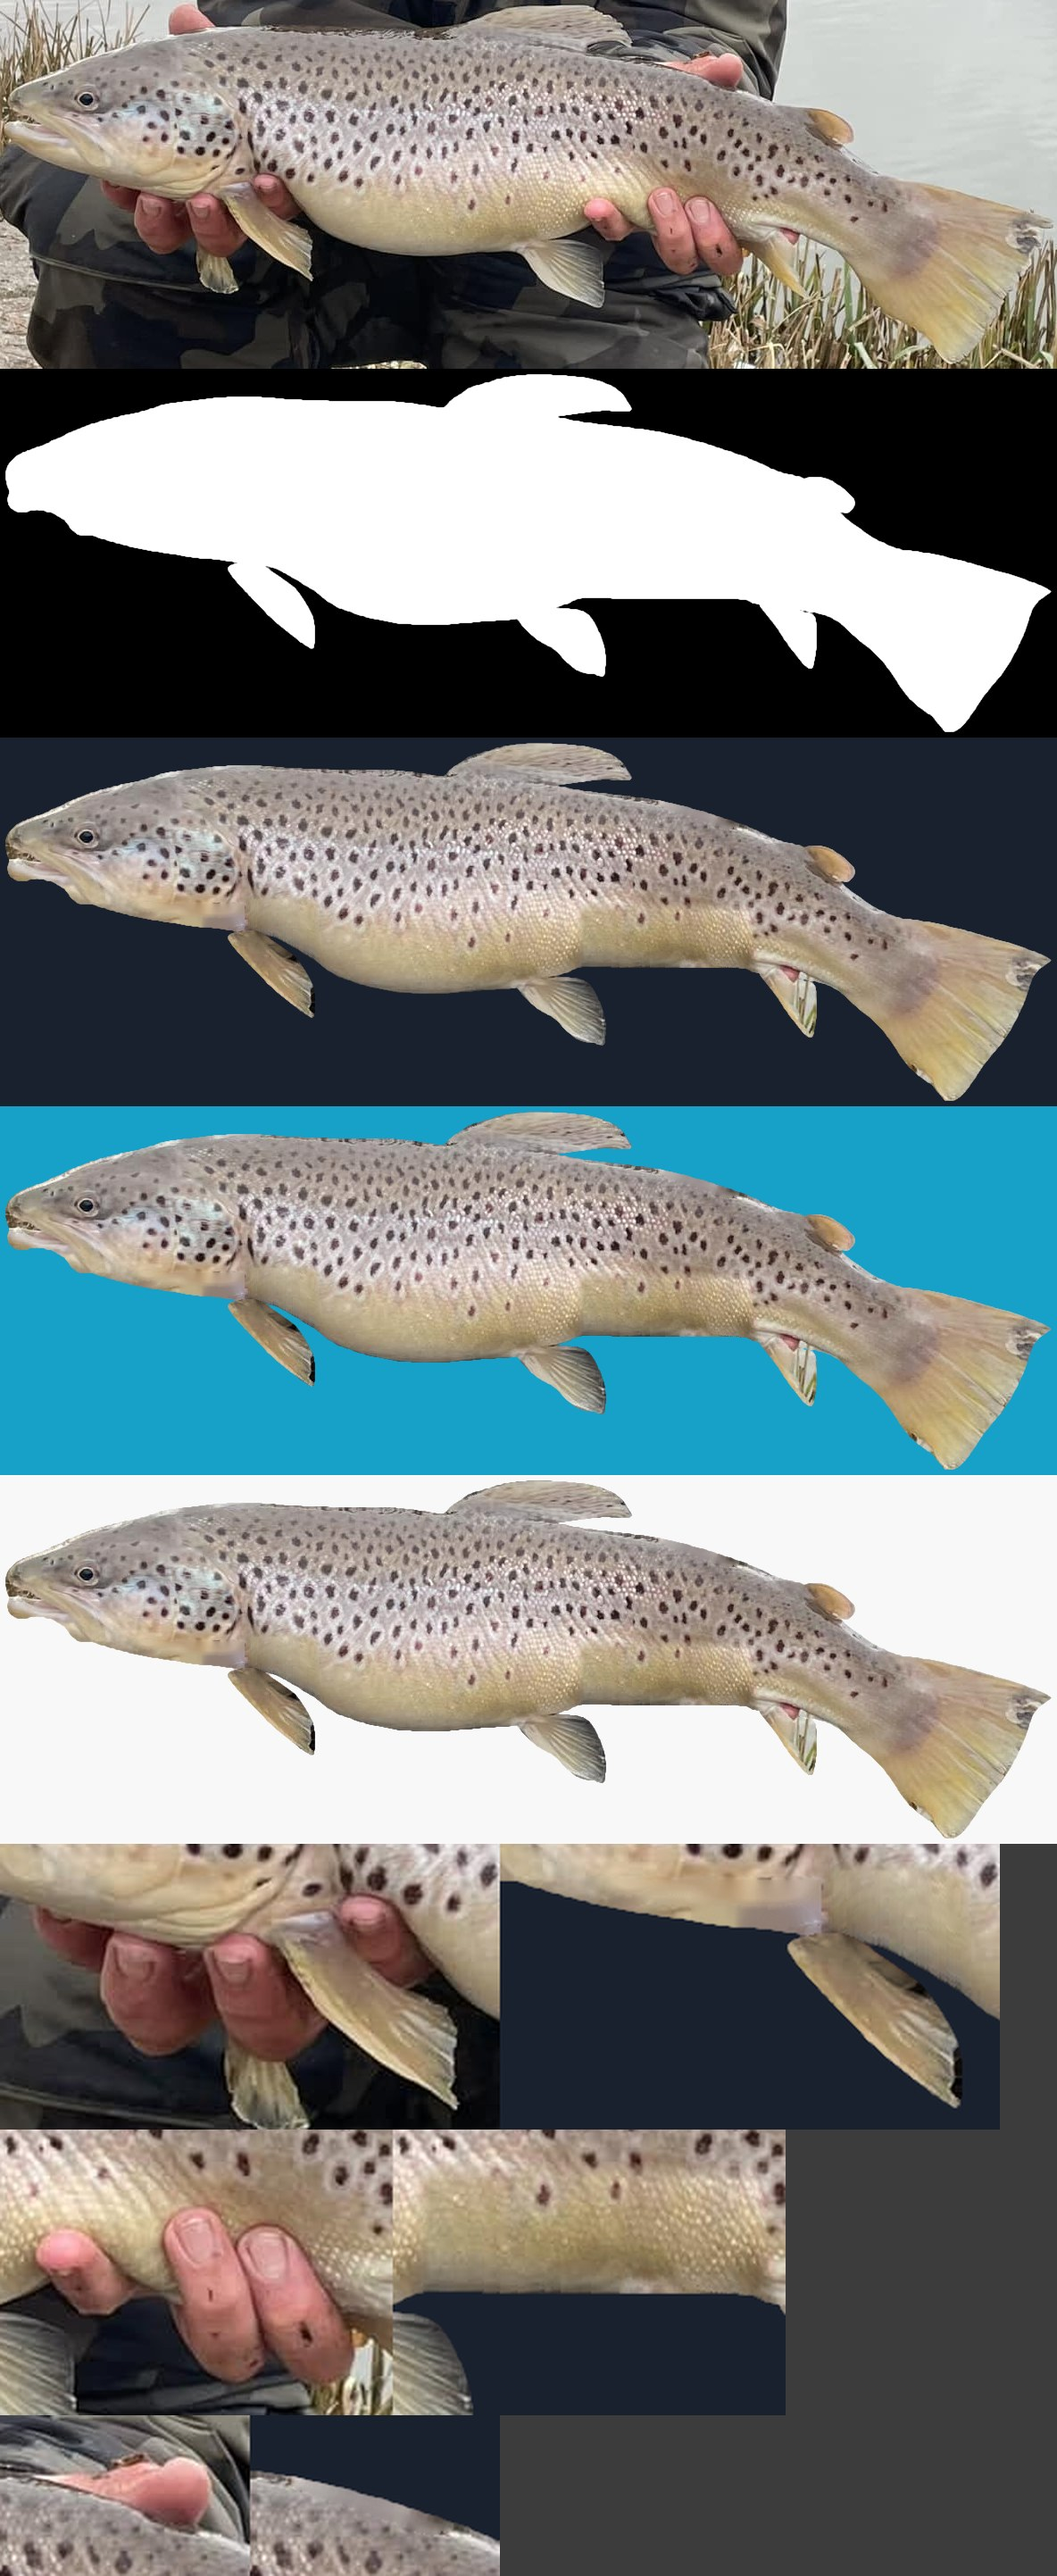
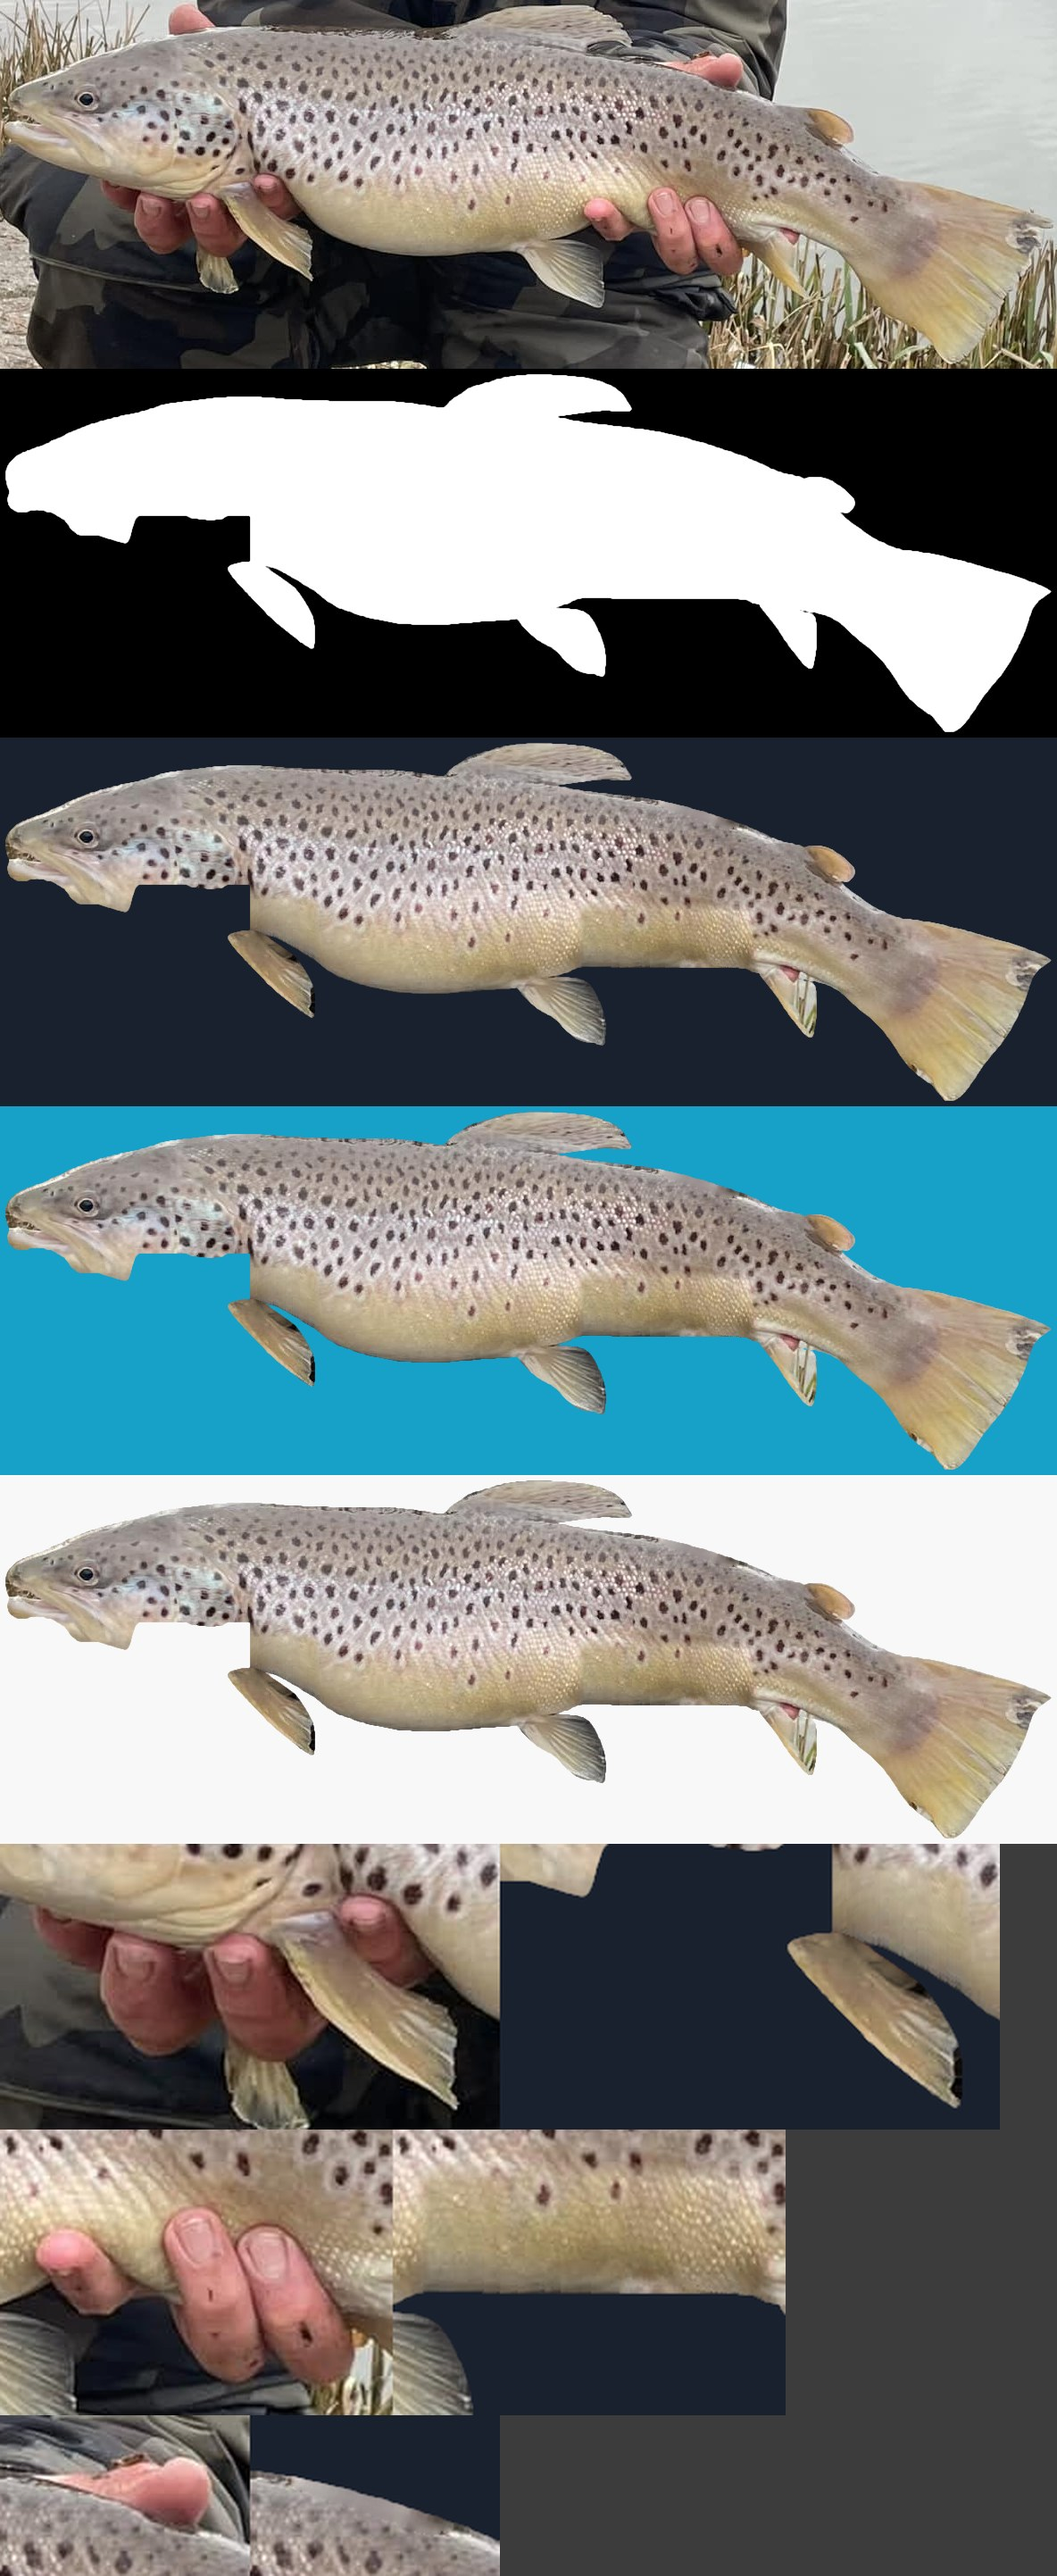
MČR 2026: workflow outputs (in progress)
Claude-Session: https://claude.ai/code/session_01UKzPfFpeHC8GokMPr6qFhY

diff --git a/projects/mcr-2026-sponzori/scripts/assets_prep/venue/fish_real_cut.py b/projects/mcr-2026-sponzori/scripts/assets_prep/venue/fish_real_cut.py
@@ -168,6 +168,22 @@ def band_copy(x0, y0, x1, y1, dx, excl, feather_v=12, feather_h=12, dc_scale=0.5
 fixed |= band_copy(795, 1183, 990, 1252, -190, pecb)
 fixed |= band_copy(425, 1168, 500, 1240, 70, pecb, feather_v=8, feather_h=8)
 
+# (1c) fingertips under the jaw/throat (x 245–425): the fingers only clip the lower rim, so the outline follows the
+#      finger tops there (smoothed) instead of inventing throat texture
+xs_ = np.arange(245, 426)
+bot = np.array([edge_y(x, True) for x in xs_], float)
+for i, x in enumerate(xs_):
+    col = np.nonzero((skin[1150:1260, x] > 0) & bodyb[1150:1260, x])[0]
+    if len(col):
+        bot[i] = min(bot[i], 1150 + col.min() - 2)
+bot = np.array([bot[max(0, i - 6):i + 7].min() for i in range(len(bot))])
+bot = cv2.GaussianBlur(bot.reshape(1, -1).astype(np.float32), (0, 0), 3).ravel()
+for i, x in enumerate(xs_):
+    yb = int(np.floor(bot[i]))
+    keep = pecb[:, x].copy()
+    m[yb + 1:1300, x] = keep[yb + 1:1300].astype(np.uint8)
+    bodyb[yb + 1:1300, x] = False
+
 # (2) everything else (finger behind the gill, fingertips on the jaw underside, both thumbs on the back/head):
 #     Telea on an image whose outside-the-fish pixels are replaced by the nearest fish pixel (no jacket/skin bleeding in)
 zm = np.zeros((H, W), bool)
